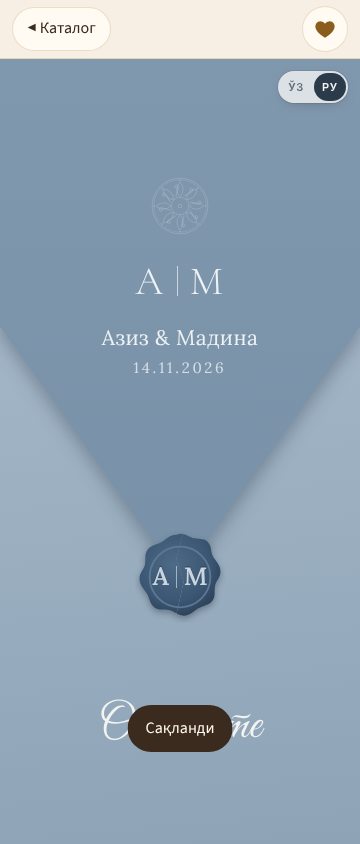
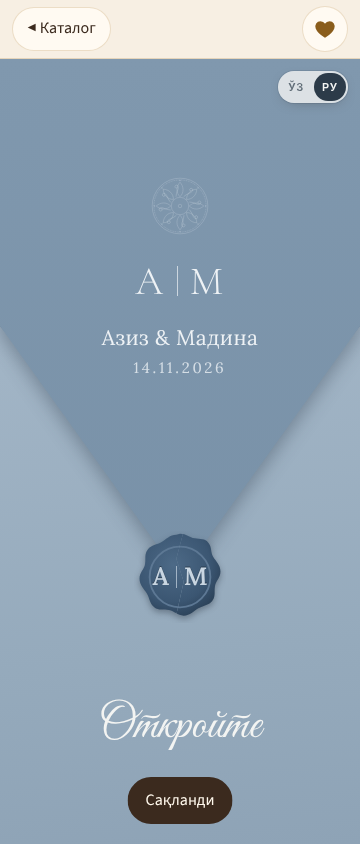
fix(app): pass through Mini App in Telegram emulation; trim bottom space, report
Claude-Session: https://claude.ai/code/session_01Dckuo3WZFwAUrdWMbrPVdY

Changed region(s): [[0.3361, 0.8318, 0.6417, 0.9858]]

diff --git a/app/app/MiniApp.tsx b/app/app/MiniApp.tsx
@@ -35,6 +35,8 @@ type Screen =
 
 type Phase = "boot" | "noTelegram" | "error" | "ready";
 const SAVE_DELAY = 700;
+/** Экраны с главной кнопкой (см. switch ниже) */
+const MAIN_SCREENS = new Set<Screen["name"]>(["view", "form", "photos", "summary", "done", "orders"]);
 const RESUBMIT_DELAY = 900;
 
 function namesOf(d: AppDraft) {
@@ -301,6 +303,9 @@ export default function MiniApp({ fontClass }: { fontClass: string }) {
   const summaryData = useMemo(() => (design && draft ? previewData(design.sample, draft.form, extras) : null), [design, draft, extras]);
   const price = order?.amount ?? (design ? PRICES[design.format] : 0);
 
+  // Своя кнопка внизу страницы видна (native MainButton не показана, а у экрана есть главное действие)
+  const ownBar = !nativeMain && phase === "ready" && !viewer && MAIN_SCREENS.has(screen.name);
+
   // ── Главная кнопка экрана ──
   let main: { text: string | null; onClick: () => void; progress?: boolean } = { text: null, onClick: () => undefined };
   if (phase === "ready") {
@@ -334,7 +339,7 @@ export default function MiniApp({ fontClass }: { fontClass: string }) {
 
   return (
     <TextsContext.Provider value={T}>
-      <div className={`${s.root} ${fontClass}`} lang={lang === "ru" ? "ru" : lang === "kk" ? "kk" : "uz-Cyrl"}>
+      <div className={`${s.root} ${ownBar ? "" : s.nativeMain} ${fontClass}`} lang={lang === "ru" ? "ru" : lang === "kk" ? "kk" : "uz-Cyrl"}>
         {phase === "ready" && screen.name !== "view" && (
           <header className={s.header}>
             <div className={s.headerRow}>

diff --git a/app/app/app.module.css b/app/app/app.module.css
@@ -32,6 +32,14 @@
   padding: 0 16px calc(96px + env(safe-area-inset-bottom));
 }
 
+/* Своей кнопки внизу нет (её рисует Telegram или у экрана нет главного действия): лишнее место и высокий тост не нужны */
+.nativeMain .wrap {
+  padding-bottom: calc(28px + env(safe-area-inset-bottom));
+}
+.nativeMain .toast {
+  bottom: calc(20px + env(safe-area-inset-bottom));
+}
+
 /* ── Шапка ── */
 .header {
   position: sticky;

diff --git a/docs/reviews/app-polish.md b/docs/reviews/app-polish.md
@@ -1,0 +1,25 @@
+# Mini App — полировка после живого теста на iPhone (06.11.2026, ветка fix/app-polish)
+
+Проверка: `scripts/check-app-tg.mjs` — эмуляция Telegram WebApp (iOS, 390×844), telegram-web-app.js приходит
+с задержкой 1,5 с, как на телефоне; каждый переход делается native MainButton/BackButton. Плюс прежний
+`scripts/check-app.mjs` (браузер без Telegram, 360/430, 4 тадбира, uz/ru).
+
+## Найдено и исправлено
+
+| # | Где | Что было | Что сделано |
+|---|-----|----------|-------------|
+| 1 | Все экраны с MainButton (первым заметили «Шуни танлайман») | `MainButton.onClick` подписывался один раз при монтировании, когда `window.Telegram` ещё не было (скрипт `afterInteractive`). Подписка не повторялась, а `setParams` позже показывал кнопку — без обработчика. Воспроизведено: на старом коде обработчиков 0, нажатие ничего не делает | Подписка ждёт сигнала готовности Telegram (`useTelegramReady`), снимается при смене/размонтировании; защита от двойного события 300 мс, сбрасывается на новом экране |
+| 2 | BackButton | Та же причина: «назад» в шапке Telegram не работал | То же исправление |
+| 3 | Запасная кнопка | В Telegram своя кнопка не показывалась никогда — если native не появилась, пользователь застревал | Своя кнопка внизу видна всегда, когда native MainButton не видна (`isVisible`) |
+| 4 | Избранное | Эмодзи ❤/🤍, разные на разных телефонах | SVG-сердце: контур → залито акцентным цветом, 180 мс, область нажатия 46 px; тост «Сақланди» без эмодзи; чип «Сақланганлар» с той же иконкой |
+| 5 | Просмотр дизайна | «Назад» и сердце лежали поверх демо и закрывали «ЎЗ · РУ · ҚЗ»; запасная кнопка закрывала музыку | Своя полоса сверху (safe-area + Telegram inset), демо ниже; снизу место под запасную кнопку. 360/390/430: язык переключается, музыка нажимается, сердце работает |
+| 6 | Все экраны в Telegram | Снизу 96 px пустоты (место под свою кнопку, которой в Telegram нет) — лишний скролл; тост висел высоко | Пустота 28 px и тост ниже, когда своей кнопки нет |
+
+## Проверено без замечаний
+Каталог → просмотр → BackButton → просмотр → «Шуни танлайман» → форма (ошибки → исправление) → фото → BackButton →
+форма → фото (загрузка) → итог → проверка перед оплатой → оплата → чек → «Менинг таклифномаларим» → новый →
+«Сақланганлар»; uz и ru. Нет горизонтального скролла, обрезанного текста, двойных подписок, ошибок консоли.
+Запасная кнопка (native не показалась) ведёт дальше и не закрывает демо.
+
+## Не трогал
+Тексты приглашений, дизайны, сервер, база. Миграции не нужны.
